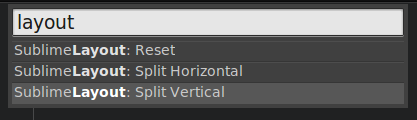
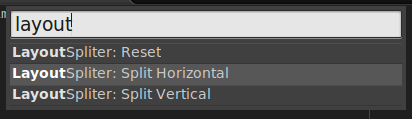
Add gif and update captures

Changed region(s): [[0.0, 0.0, 1.0, 0.9328]]

diff --git a/README.md b/README.md
@@ -4,9 +4,7 @@ Change easily the Sublime Text layout
 
 Split vertically or horizontally the layout.
 
-![Example](/captures/example.png)
-
-No limit !
+![Gif](/captures/example.gif)
 
 ### Commands
 
@@ -15,6 +13,9 @@ No limit !
 * `Split vertical` (Split the current view vertically into 2 equal parts)
 * `Split horizontal` (Split the current view horizontally into 2 equal parts)
 * `Reset` (Reset the layout: 1 view)
+
+*No limit !*
+![Example](/captures/capture.png)
 
 ### Installation
 
